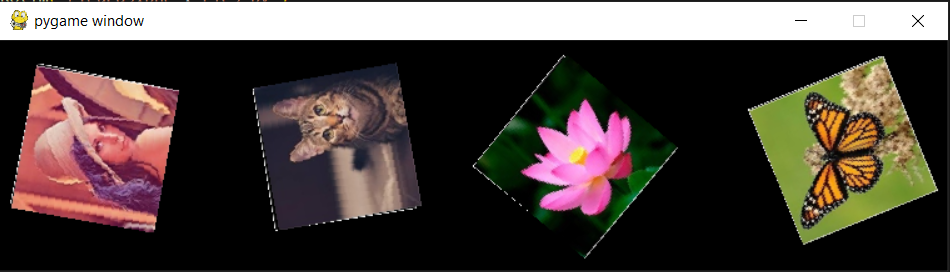
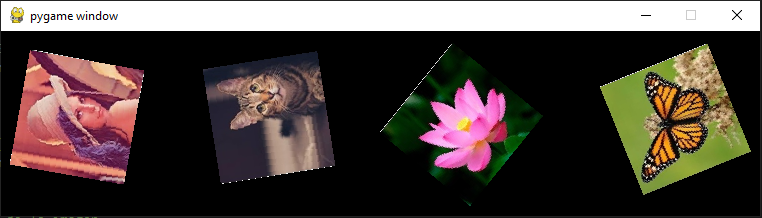
Interfaces

diff --git a/pages/Pregunta 2.py b/pages/Pregunta 2.py
@@ -20,41 +20,64 @@ import pygame as py
 from pygame.locals import *
 import sys
 from PIL import Image 
+from PIL import ImageOps
 
-#Abriremos las imagenes y luego les cambiamos el tamaño
-def RotIm(fig,nom):
-    fig = Image.open(fig).resize((116,116))
-    fig.save(nom+".png")
-RotIm("Figura1.png","Fig1_py")
-RotIm("Figura2.png","Fig2_py")
-RotIm("Figura3.png","Fig3_py")
-RotIm("Figura4.png","Fig4_py")
+#Abrimos la imagen para cortar las figuras
+img = Image.open('figuras.png')
+#Generamos los border a cortar(izq,arriba,der,abajo)
+border1 = (4,6,766,5)
+#Se corta la imagen
+img1= ImageOps.crop(img,border1)
+#Se guarda bajo el nombre "Fig1.png"
+img1.save("Fig1.png")
+
+
+#Se repite el proceso con todas las figuras
+border2 = (242,5,503,20)
+img2= ImageOps.crop(img,border2)
+img2.save("Fig2.png")
+
+
+border3 = (504,23,264,30)
+img3 = ImageOps.crop(img,border3)
+img3.save("Fig3.png")
+
+
+border4 = (733,20,8,26)
+img4 = ImageOps.crop(img,border4)
+img4.save("Fig4.png")
+
+#Se reajusta el tamaño de la imagen
+img1.resize((116,116)).save("Fig1_r.png")
+img2.resize((116,116)).save("Fig2_r.png")
+img3.resize((116,116)).save("Fig3_r.png")
+img4.resize((116,116)).save("Fig4_r.png")
 
 #Iniciamos pygame
 py.init()
 #Seteamos el tamano de la pantalla 
 Screen= py.display.set_mode((759,185))
-#Cargamos imagenes y separa canales pero mantiene los canales alpha
-fig_1=py.image.load("Fig1_py.png")
-fig_2=py.image.load("Fig2_py.png")
-fig_3=py.image.load("Fig3_py.png")
-fig_4=py.image.load("Fig4_py.png")
+#Cargamos imagenes y se utiliza convert_alpha() para mantener la transparencia detras de la imagen
+fig_1=py.image.load("Fig1_r.png").convert_alpha()
+fig_2=py.image.load("Fig2_r.png").convert_alpha()
+fig_3=py.image.load("Fig3_r.png").convert_alpha()
+fig_4=py.image.load("Fig4_r.png").convert_alpha()
 
 #Cargamos la plantilla en la pantalla
 background=py.image.load("plantilla.png")
 
 #Rotamos las imagenes los grados que salen en la segunda variable
 rotar_1=py.transform.rotate(fig_1,80)
-rotar_2=py.transform.rotate(fig_2,100)
-rotar_3=py.transform.rotate(fig_3,50)
+rotar_2=py.transform.rotate(fig_2,99)
+rotar_3=py.transform.rotate(fig_3,51)
 rotar_4=py.transform.rotate(fig_4,112)
 
 #Cargamos todas las imagenes en sus respectivas posiciones
 Screen.blit(background,(0,0))
-Screen.blit(rotar_1,(10,20))
-Screen.blit(rotar_2,(204,18))
-Screen.blit(rotar_3,(380,12))
-Screen.blit(rotar_4,(600,13))
+Screen.blit(rotar_1,(9,19))
+Screen.blit(rotar_2,(202,20))
+Screen.blit(rotar_3,(379,12))
+Screen.blit(rotar_4,(599,13))
 
 py.display.flip()
 while True:
